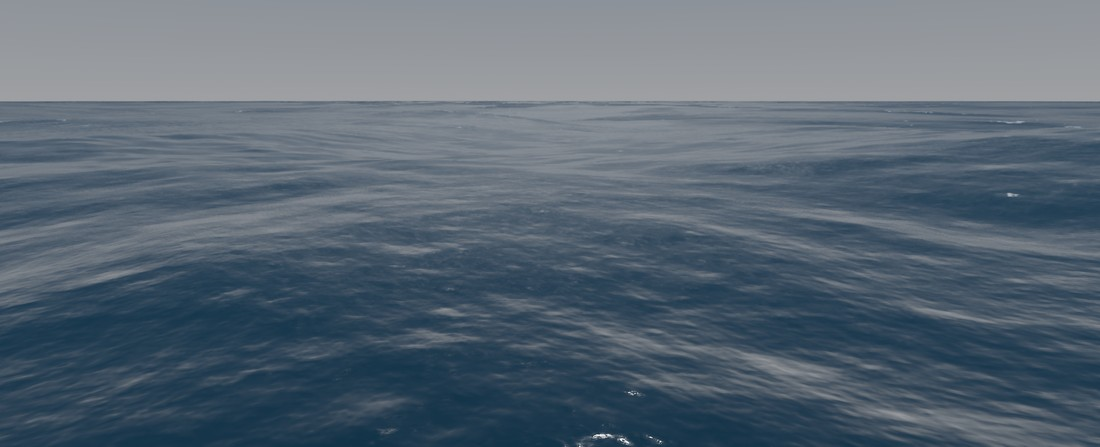
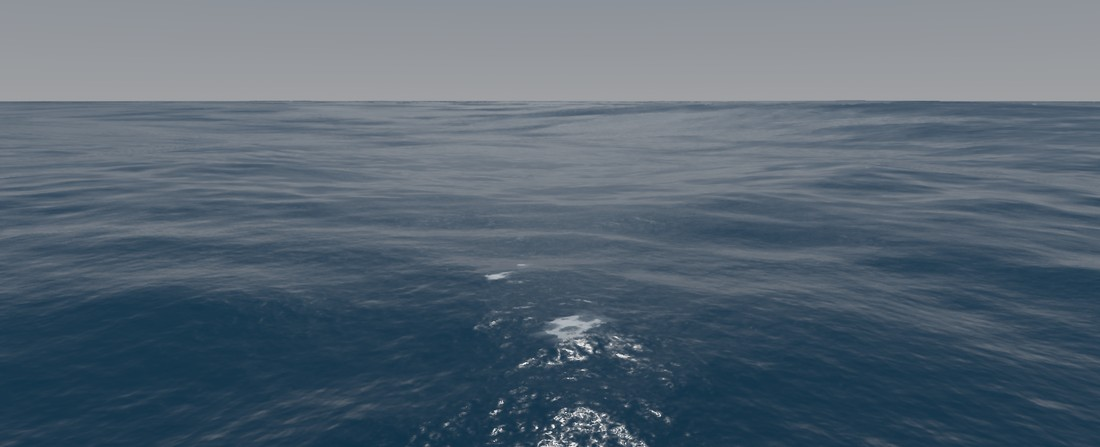
docs: ocean swell reshoot after tile breakup (cbd7b754)
Claude-Session: https://claude.ai/code/session_019a7Xd2PZ5gvYQ3NZ7og5rU

diff --git a/site/content/features/water.md b/site/content/features/water.md
@@ -47,7 +47,7 @@ summary: "Refraction, murky water, caustics, ocean and storm seas, currents, boa
 
   ![Deep open sea under overcast sky with three wave layers, raster](media/ocean-swell.jpg)
 
-  *Ocean swell: three wave layers run long swell under the chop.*
+  *Ocean swell: three wave layers run long swell under the chop, and no wave tile repeats.*
 
 - **Measured wave spreading** (`wave_spreading`, `swell`): Donelan-Banner spreading as Horvath (2015) fits it, with swell; slopes at 14 m/s match Cox and Munk's measurements.
 
